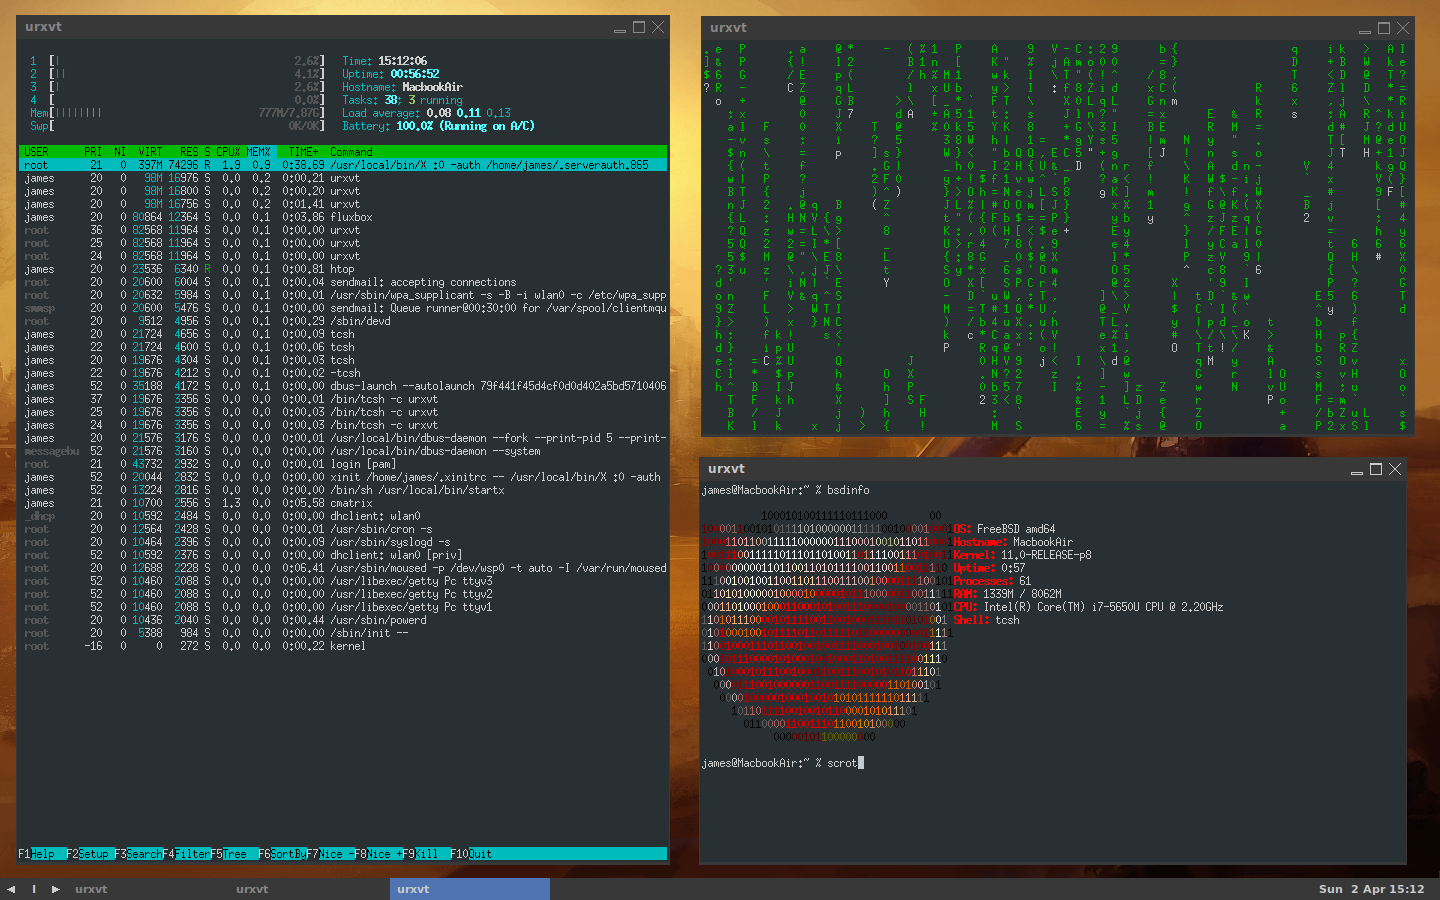
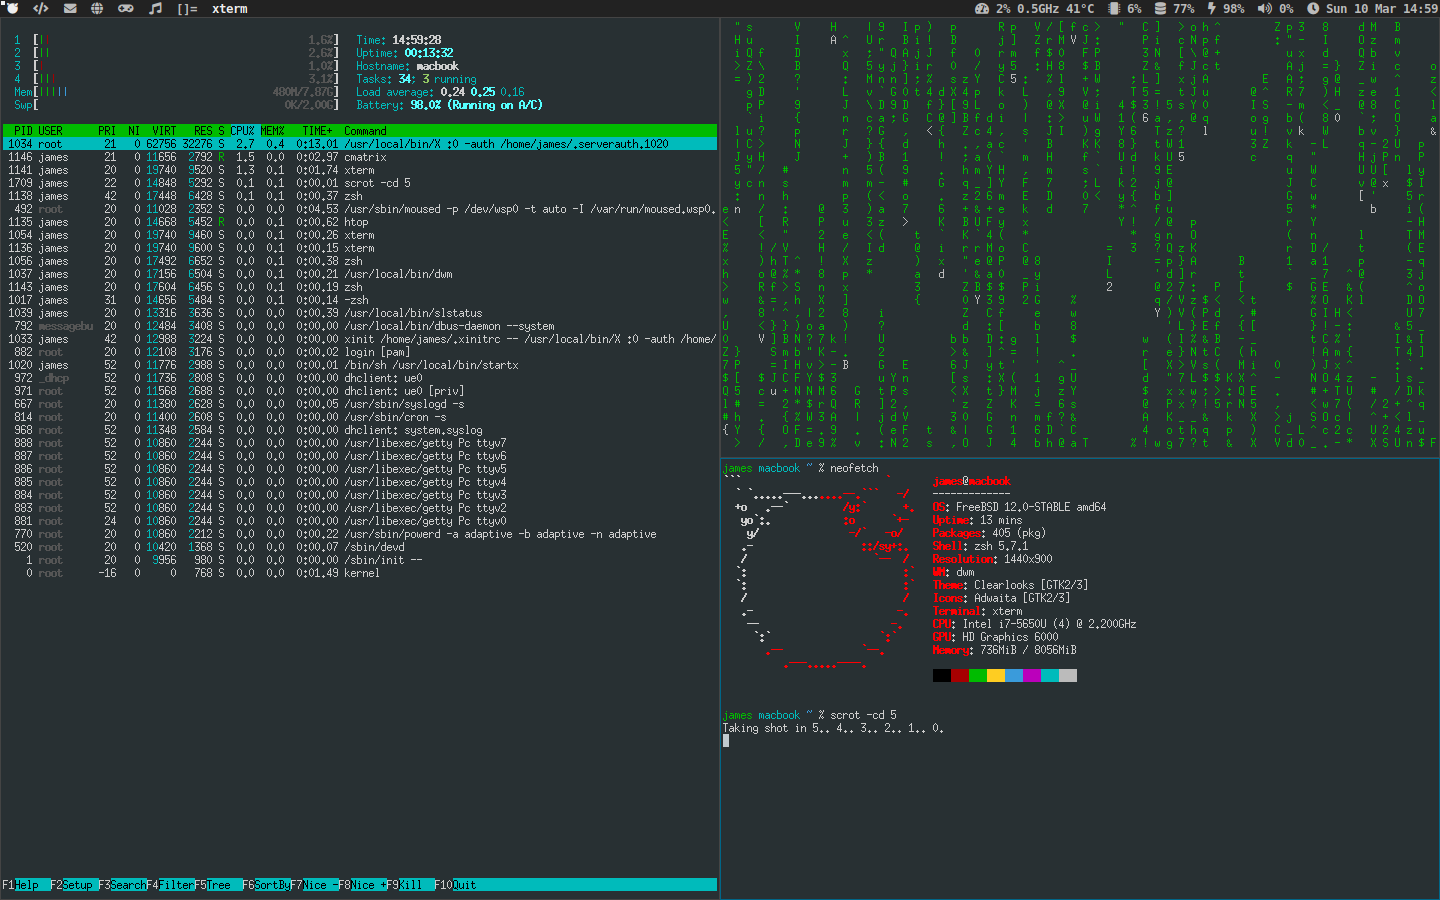
Update README.md and screenie.png

Changed region(s): [[0.0, 0.0, 1.0, 1.0], [0.8125, 0.2489, 0.875, 0.4356]]

diff --git a/README.md b/README.md
@@ -1,6 +1,6 @@
 # dotfiles
 
-FreeBSD / Fluxbox / MacBook Air
+FreeBSD / MacBook Air
 
 ![FreeBSD screenshot](https://github.com/Digital-Chaos/dotfiles/blob/master/screenie.png)
 
